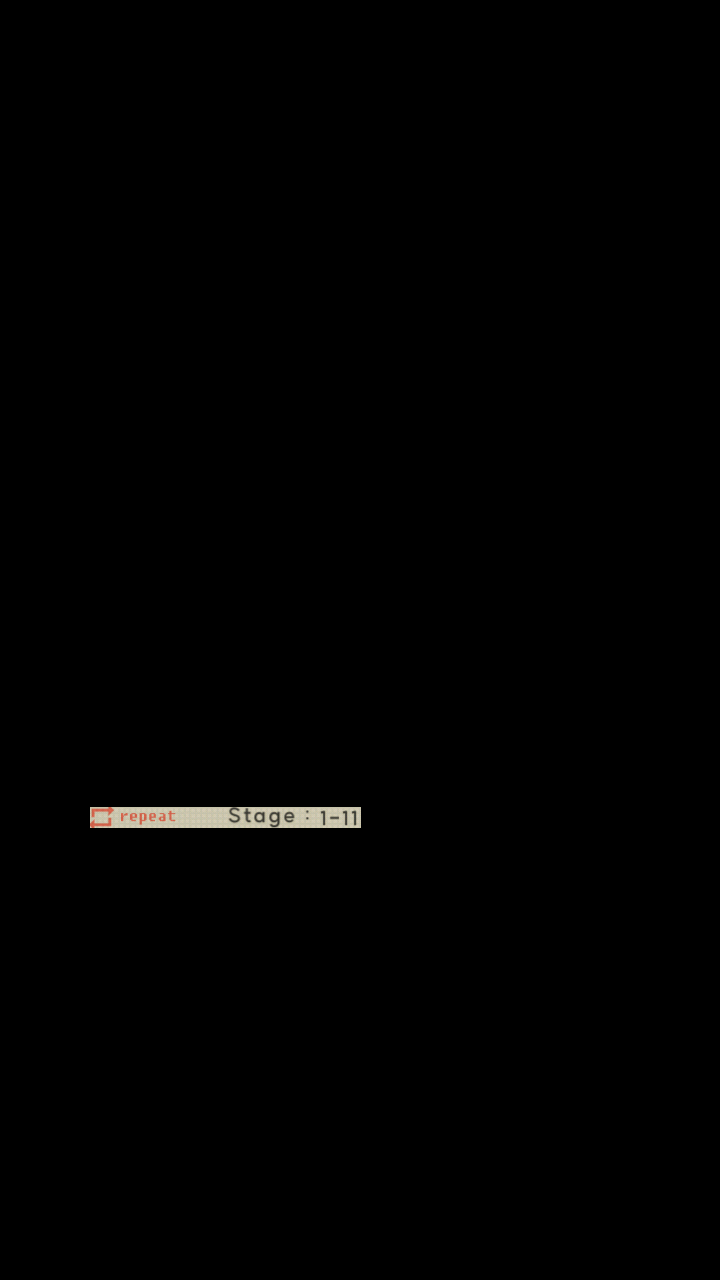
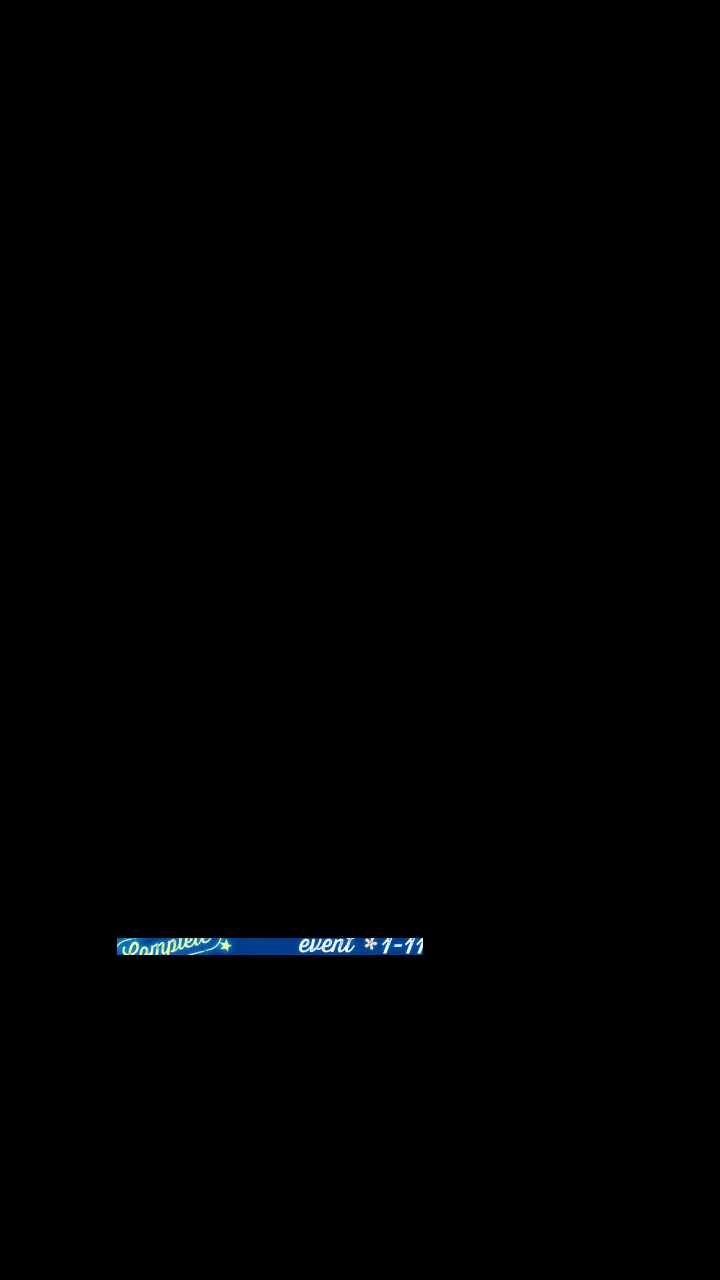
更新BOOM! THE GHOST!资源

Changed region(s): [[0.1528, 0.7188, 0.5806, 0.75], [0.1222, 0.625, 0.5194, 0.6562]]

diff --git a/module/event/event_20250716/assets.py b/module/event/event_20250716/assets.py
@@ -41,7 +41,7 @@ STORY_2_HARD_LOCKED = Button(area={'cn': (582, 1165, 672, 1182)}, color={'cn': (
 STORY_2_HARD_STAGE_11 = Button(area={'cn': (404, 588, 439, 664)}, color={'cn': (150, 150, 149)}, button={'cn': (404, 588, 439, 664)}, file={'cn': './assets/event/event_20250716/STORY_2_HARD_STAGE_11.png'})
 STORY_2_HARD_UNLOCK = Button(area={'cn': (343, 733, 438, 753)}, color={'cn': (157, 161, 163)}, button={'cn': (343, 733, 438, 753)}, file={'cn': './assets/event/event_20250716/STORY_2_HARD_UNLOCK.png'})
 STORY_2_NORMAL = Button(area={'cn': (499, 1185, 521, 1252)}, color={'cn': (181, 125, 126)}, button={'cn': (499, 1185, 521, 1252)}, file={'cn': './assets/event/event_20250716/STORY_2_NORMAL.png'})
-STORY_2_NORMAL_STAGE_11 = Button(area={'cn': (90, 807, 361, 828)}, color={'cn': (192, 180, 157)}, button={'cn': (90, 807, 361, 828)}, file={'cn': './assets/event/event_20250716/STORY_2_NORMAL_STAGE_11.png'})
+STORY_2_NORMAL_STAGE_11 = Button(area={'cn': (117, 938, 423, 955)}, color={'cn': (60, 121, 171)}, button={'cn': (117, 938, 423, 955)}, file={'cn': './assets/event/event_20250716/STORY_2_NORMAL_STAGE_11.png'})
 STORY_STAGE_CHECK = Button(area={'cn': (138, 860, 234, 882)}, color={'cn': (177, 177, 177)}, button={'cn': (138, 860, 234, 882)}, file={'cn': './assets/event/event_20250716/STORY_STAGE_CHECK.png'})
 TEMPLATE_COOP_ENABLE = Template(file={'cn': './assets/event/event_20250716/TEMPLATE_COOP_ENABLE.png'})
 TEMPLATE_SHOP_MONEY = Template(file={'cn': './assets/event/event_20250716/TEMPLATE_SHOP_MONEY.png'})
